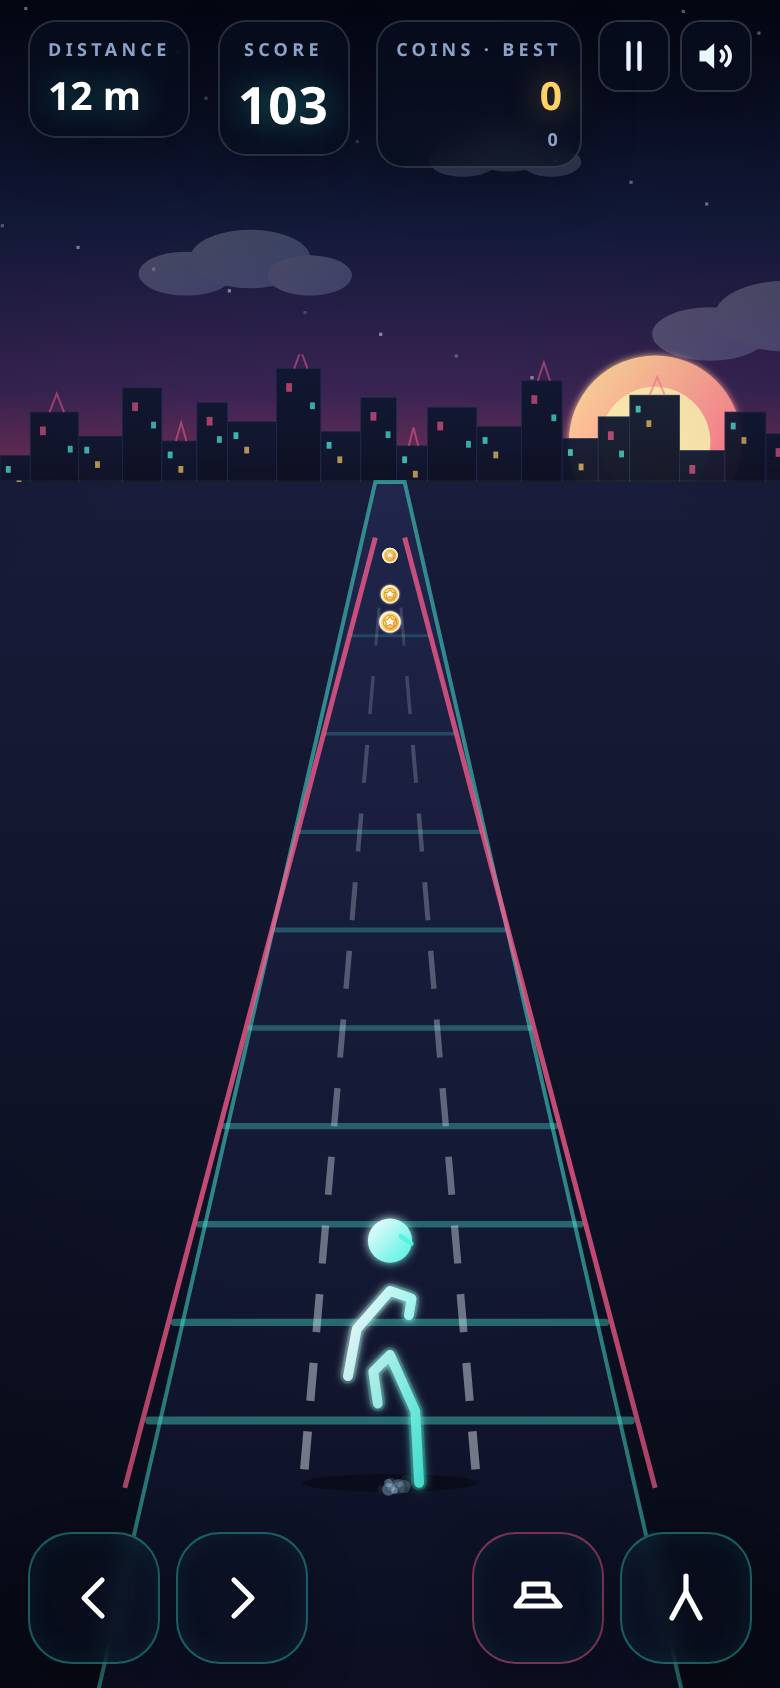
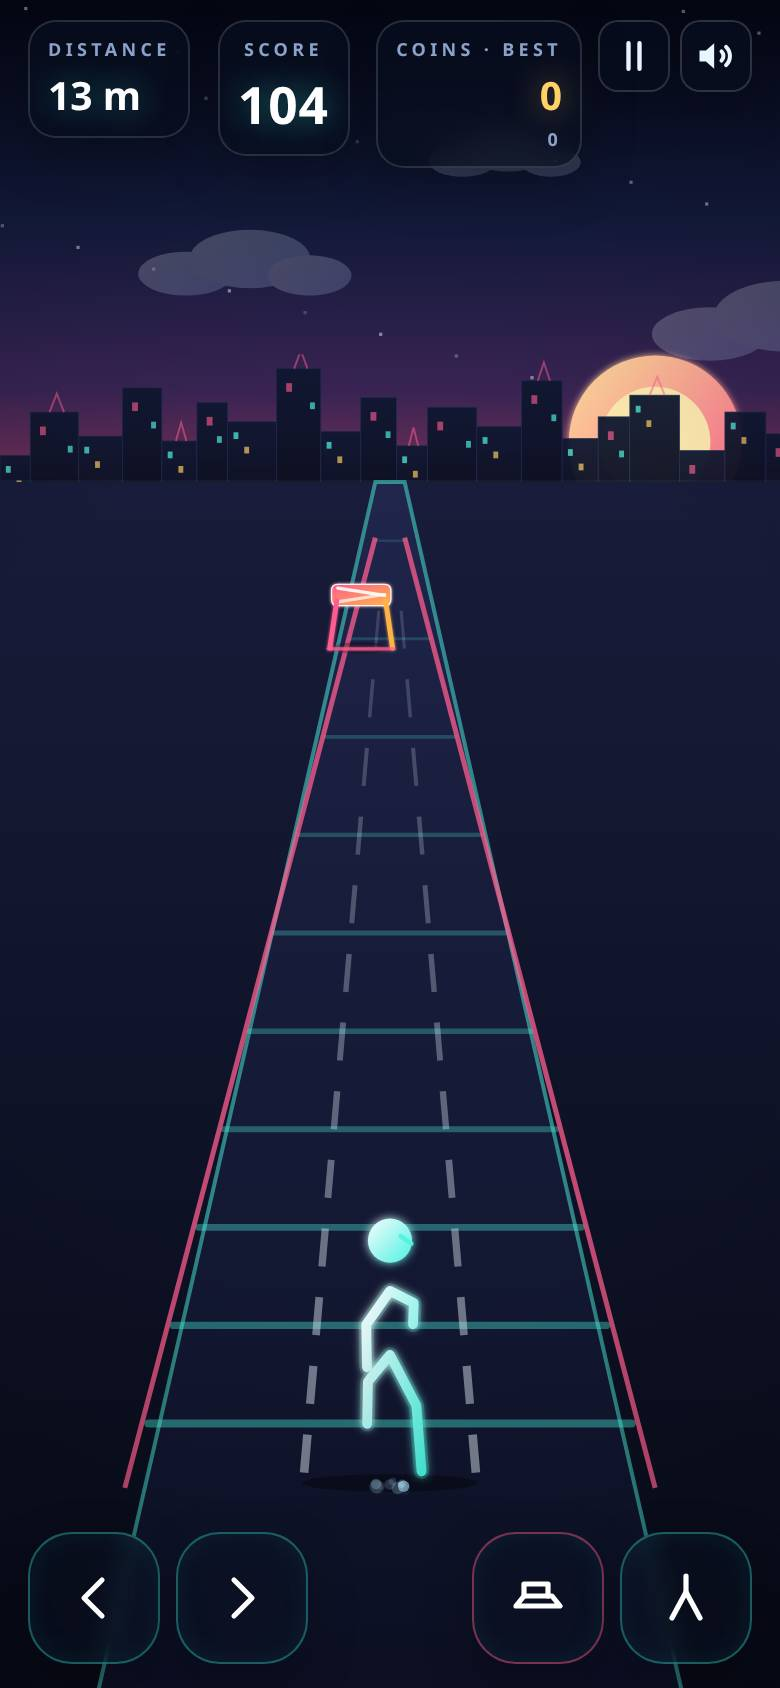
Fix unfair max-difficulty generator: wave spacing guard, slide re-arm
Perfect play died 10/10 at ~1505m from three stacked causes: wall-dodge
stagger of 2.5z (62ms at speed 40), cross-wave obstacles interleaved into
escape lanes ~4z behind walls (one guard leak even made 0.4z pairs), and a
slide-chain trap where the 0.72s slide blocked re-arming against a second
gate 0.29s later.

- obstacles now carry a wave id; enforceWaveSpacing() enforces speed-
  proportional cross-wave z-gaps (0.24s + 0.09s/lane, 0.75s hurdle-first
  same-lane) to a fixed point
- wall-dodge stagger 2.5 -> 3.5; double-wall escape gate spawns at
  wallB + lerp(9,13,d)
- startSlide re-arms a depleted slide (mash-friendly, no fresh-slide restart)
- perfect-bot oracle rewritten as predictive lane-survival policy

Verified: FAIRNESS_RUNS=10 npm run test:fairness -> 10/10 survive 45s at
seeded max difficulty (was 10/10 deaths at 1504-1608m). npm test unchanged
(4 known queued failures), no console errors.

diff --git a/js/game.js b/js/game.js
@@ -195,7 +195,16 @@
 
     startSlide(silent = false) {
       const p = this.player;
-      if (!p.grounded || p.sliding) return;
+      if (!p.grounded) return;
+      // Re-arm: a second gate arriving just after the first slide expires must
+      // not be unslidable. Refreshing a nearly-depleted slide is allowed;
+      // a fresh one is not restarted (prevents mash-spam dust/sound).
+      if (p.sliding) {
+        if (p.slideTimer > 0.4) return;
+        p.slideTimer = 0.72;
+        if (!silent) this.audio.slide();
+        return;
+      }
       p.sliding = true;
       p.slideTimer = 0.72;
       this.spawnDust(10);
@@ -411,6 +420,7 @@
     spawnWave() {
       const d = this.difficulty;
       const lanes = [...LANES];
+      this.waveId = (this.waveId || 0) + 1;
 
       if (Math.random() < lerp(0.24, 0.10, d)) {
         this.spawnCoinLine(pick(lanes));
@@ -442,9 +452,12 @@
         } else {
           const a = pick(lanes); const b = pick(lanes.filter(l => l !== a));
           this.spawnObstacle('wall', a, ZFAR);
-          this.spawnObstacle('wall', b, ZFAR + rand(5, 8));
+          const wallBz = ZFAR + rand(5, 8);
+          this.spawnObstacle('wall', b, wallBz);
           const open = lanes.find(l => l !== a && l !== b);
-          this.spawnObstacle(Math.random() < 0.6 ? 'hurdle' : 'slideGate', open, ZFAR + rand(9, 12));
+          // The escape-lane action must not fire while the player is still
+          // completing the wall dodge: give it a speed-proportional head start.
+          this.spawnObstacle(Math.random() < 0.6 ? 'hurdle' : 'slideGate', open, wallBz + lerp(9, 13, d));
         }
       }
 
@@ -452,12 +465,44 @@
       if (Math.random() < 0.30) {
         this.spawnCoinLine(pick(lanes), 4);
       }
+      this.enforceWaveSpacing();
+    }
+
+    // Fairness guard: consecutive waves may interleave, but the next required
+    // action must stay reaction-feasible — at least ~0.24s after the previous
+    // obstacle, plus lane-travel time when it sits in a different lane. A
+    // hurdle-first same-lane chain gets a wider gap because the jump occupies
+    // the lane for its full duration. Runs to a fixed point so a push can
+    // never drop the obstacle right in front of a later old one. (Invariant:
+    // fresh waves spawn at ZFAR behind all live obstacles, so only pushing
+    // fresh z forward is needed.)
+    enforceWaveSpacing() {
+      const w = this.waveId;
+      const fresh = this.obstacles.filter(o => o.wave === w);
+      const old = this.obstacles.filter(o => o.wave !== w && !o.smashed && o.z > 3);
+      for (const n of fresh) {
+        let changed = true;
+        let passes = 0;
+        while (changed && passes++ < 8) {
+          changed = false;
+          for (const ob of old) {
+            if (ob.z >= n.z) continue;
+            const laneDist = Math.min(2, Math.abs(ob.lane - n.lane));
+            let minGap = this.speed * (0.24 + 0.09 * laneDist);
+            if (ob.kind === 'hurdle' && laneDist === 0) minGap = Math.max(minGap, this.speed * 0.75);
+            if (n.z - ob.z < minGap) {
+              n.z = ob.z + minGap;
+              changed = true;
+            }
+          }
+        }
+      }
     }
 
     spawnWallDodge(d) {
       const openLane = pick(LANES);
       const blocked = LANES.filter(l => l !== openLane);
-      const stagger = lerp(7, 2.5, d);
+      const stagger = lerp(7, 3.5, d);
       this.spawnObstacle('wall', blocked[0], ZFAR);
       this.spawnObstacle('wall', blocked[1], ZFAR + stagger);
       if (Math.random() < 0.45) this.spawnCoinLine(openLane, 4);
@@ -479,7 +524,8 @@
         passed: false,
         smashed: false,
         nearMissGiven: false,
-        spawnZ: z
+        spawnZ: z,
+        wave: this.waveId || 0
       });
     }
 

diff --git a/notes.md b/notes.md
@@ -119,3 +119,18 @@
 - Added a 0.12s jump buffer on the player: early airborne presses are remembered and fire automatically on touchdown (full dust/jump feedback, not a ghost step). Stale presses (>0.12s before landing) still expire unused; double-jump with Golden Kicks is unchanged.
 - TDD'd with a deterministic harness that arms presses at an exact predicted time-to-landing (computed per physics frame, immune to headless frame jitter): red (eaten at 86-90ms early), green after the fix; a 200-260ms-early stale press correctly does not auto-jump.
 - Re-ran the full verify suite (wall geometry on both viewports, 70s perfect-bot fairness run, console watch): all green.
+
+## Dev log — Fix pass 7 (top-5 #1): fairness at max difficulty
+
+**Problem (measured).** 10/10 perfect-bot runs died at 1504–1608m. Three stacked causes found via death-pattern forensics and a per-tick input timeline probe:
+1. `spawnWallDodge` stagger at max difficulty = 2.5z (62ms at speed 40).
+2. Cross-wave interleaving dropped action obstacles into escape lanes as little as ~4z (~0.1s) behind a wall; a spacing-guard leak could even produce 0.4z cross-wave pairs (a pushed obstacle landing in front of a later one the guard had skipped).
+3. **Slide-chain trap (mechanics):** two same-lane slide-gates 0.29s apart. First slide (0.72s) still active through the second gate's re-slide window; `startSlide` refused input while sliding → guaranteed death in the (0.72s, 0.85s) gap band, skill-independent. Timeline evidence: slide fired at t=19.98, gate#2 impact at t≈20.75, slide expired 20.70, crash on the next tick.
+
+**Fixes.**
+- `js/game.js`: obstacles now carry a `wave` id; `enforceWaveSpacing()` runs after each wave and enforces a speed-proportional minimum z-gap between cross-wave obstacles — `0.24s` base + `0.09s` per lane of lateral travel, `0.75s` for hurdle-first same-lane chains (jump occupies the lane) — iterating to a fixed point so pushes can't create new violations.
+- Wall-dodge stagger floor raised `2.5 → 3.5`z; double-wall branch's escape-lane gate now spawns `wallB + lerp(9,13,d)` instead of `ZFAR + rand(9,12)`.
+- `startSlide` re-arms a depleted slide (`slideTimer ≤ 0.4` refreshes to 0.72; a fresh slide is not restarted, preventing mash-spam). This deletes the deadly band: mashing slide now always works, matching player expectation.
+- `tests/qa.mjs`: perfect-bot oracle rewritten as a predictive policy (per-tick lane survival-time evaluation with transit taps through staggered wall pairs, fixed reaction leads 0.30s jump / 0.10s slide / 0.55s wall). It found three of its own oracle bugs along the way (nearest-any-lane masking, random lane pick into gates, paralysis on stagger pairs) — each documented by death patterns, not guessed.
+
+**Verification (Playwright).** `FAIRNESS_RUNS=10 npm run test:fairness`: **10/10 perfect-bot runs survive the full 45s window at seeded max difficulty (difficulty 1.0, speed ~40)**, distances consistent at cap (~1830–1850m vs 1504–1608 before). Fast suite: 4 pre-existing failures remain (fixes #2–#5 below), smoke clean, no console errors. Evidence: `evidence/fix1-maxdifficulty-fair.jpg`.
